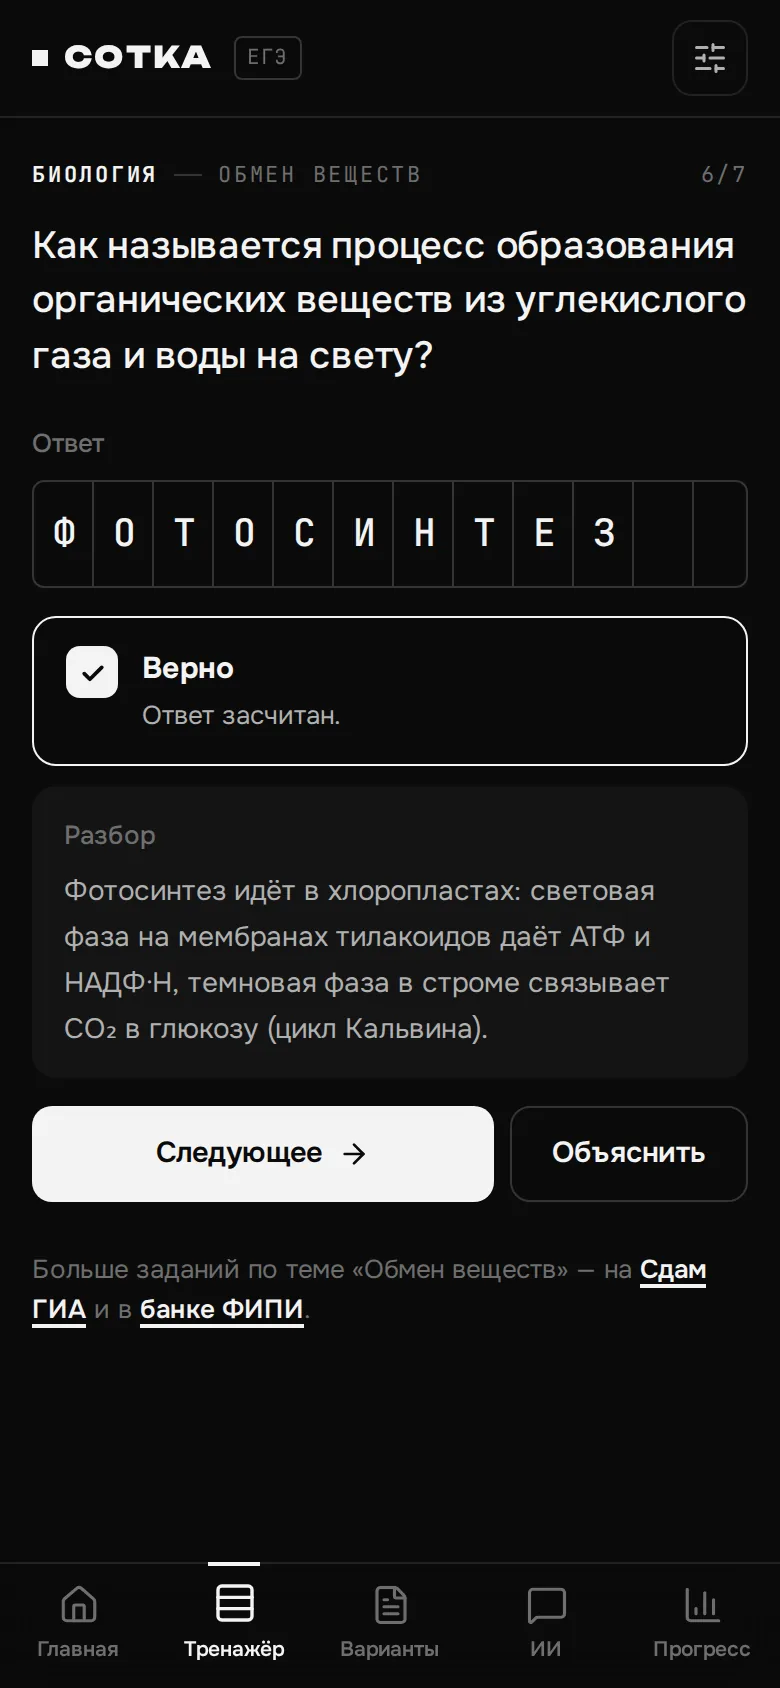
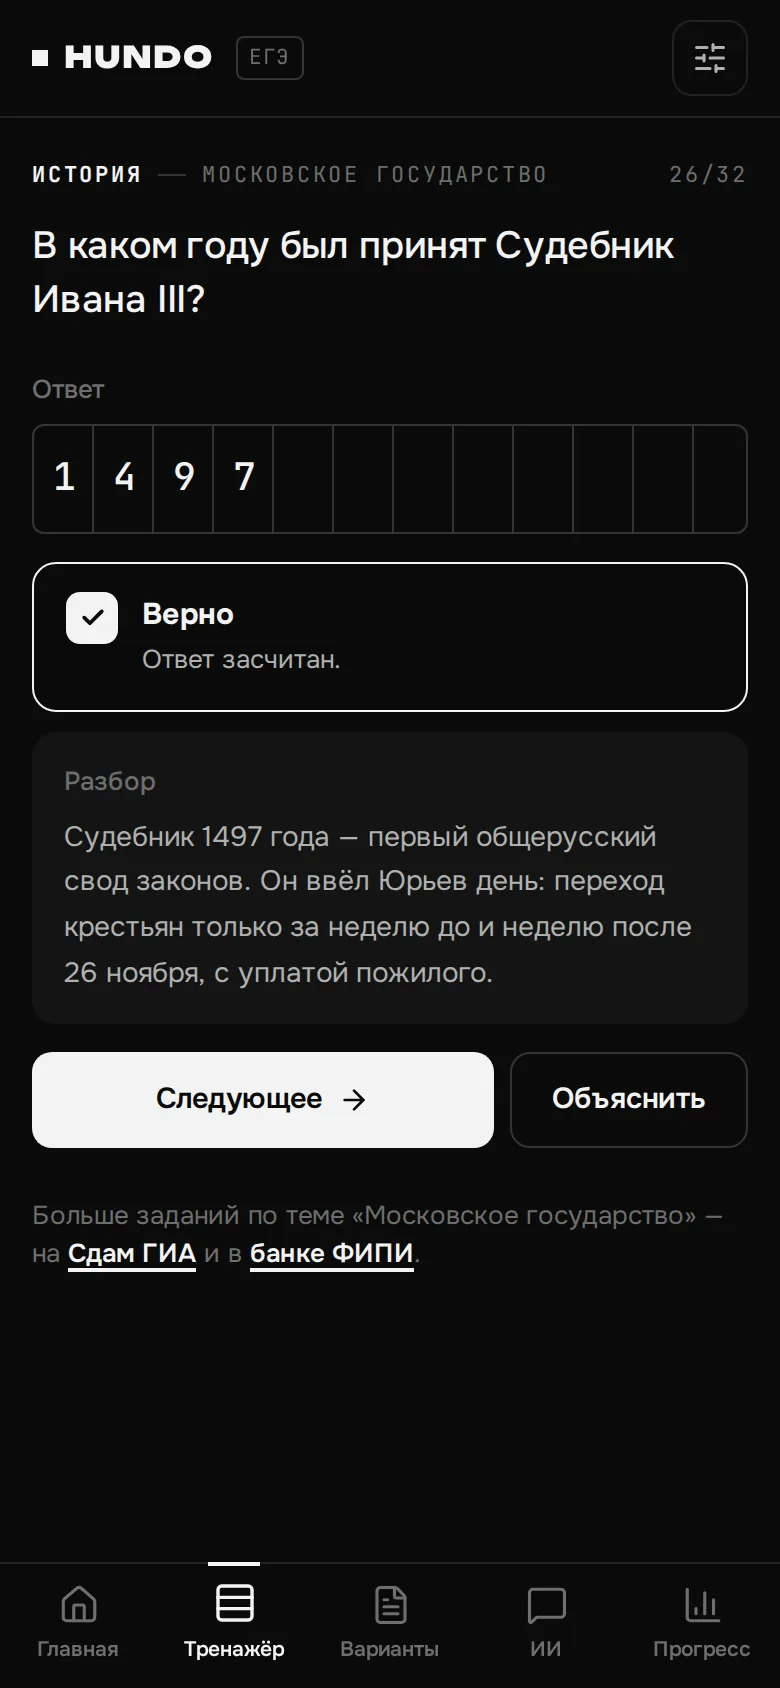
Новое название: HUNDO
Claude-Session: https://claude.ai/code/session_014kczeWkW6iMJEP4UBtWyo9

diff --git a/src/landing/Landing.tsx b/src/landing/Landing.tsx
@@ -37,7 +37,7 @@ export function Landing() {
     <MotionConfig reducedMotion="user">
       <header className="sticky top-[env(safe-area-inset-top,0px)] z-30 border-b border-line bg-bg/85 backdrop-blur-md">
         <div className="mx-auto flex max-w-[1080px] items-center gap-3 px-4 py-3">
-          <p className="m-0 flex items-center gap-2 font-display text-[15px] font-black tracking-[.06em]"><i className="inline-block size-2 bg-accent" />СОТКА</p>
+          <p className="m-0 flex items-center gap-2 font-display text-[15px] font-black tracking-[.06em]"><i className="inline-block size-2 bg-accent" />HUNDO</p>
           <span className="flex-1" />
           <a href={APP_URL} className="text-sm font-semibold text-fg-2 hover:text-fg">Открыть приложение</a>
         </div>
@@ -131,7 +131,7 @@ export function Landing() {
 
       <footer className="border-t border-line">
         <div className="mx-auto flex max-w-[1080px] flex-wrap justify-between gap-3 px-4 py-6 font-mono text-[11.5px] text-fg-3">
-          <span>Сотка · школьный проект · задания: ФИПИ, Сдам ГИА</span>
+          <span>HUNDO · школьный проект · задания: ФИПИ, Сдам ГИА</span>
           <span>сборка {BUILD.version}{BUILD.date ? " · " + BUILD.date : ""}</span>
         </div>
       </footer>
@@ -148,13 +148,13 @@ const STEPS: Record<Platform, React.ReactNode[]> = {
     <>Откройте этот сайт в <b>Safari</b> (или в Chrome на iOS 16.4+)</>,
     <>Нажмите <b className="inline-flex items-center gap-1">«Поделиться» <Share className="size-4" /></b> внизу экрана</>,
     <>Выберите <b className="inline-flex items-center gap-1">«На экран „Домой“» <SquarePlus className="size-4" /></b></>,
-    <>Нажмите <b>«Добавить»</b> — иконка «Сотки» появится рядом с другими приложениями</>,
+    <>Нажмите <b>«Добавить»</b> — иконка HUNDO появится рядом с другими приложениями</>,
   ],
   android: [
     <>Откройте этот сайт в <b>Chrome</b> или Яндекс Браузере</>,
     <>Нажмите кнопку <b>«Установить приложение»</b> выше или меню <b className="inline-flex items-center gap-0.5"><EllipsisVertical className="size-4" /></b> → «Установить приложение»</>,
     <>В других браузерах пункт называется <b>«Добавить на главный экран»</b></>,
-    <>Иконка «Сотки» появится на главном экране — открывайте как обычное приложение</>,
+    <>Иконка HUNDO появится на главном экране — открывайте как обычное приложение</>,
   ],
   desktop: [
     <>Откройте сайт в <b>Chrome</b>, <b>Edge</b> или Яндекс Браузере</>,

diff --git a/src/app/sheets/Sheets.tsx b/src/app/sheets/Sheets.tsx
@@ -150,7 +150,7 @@ function AboutSheet() {
   const [share, setShare] = useState("");
   const onShare = async () => {
     const url = location.origin + "/";
-    if (navigator.share) { try { await navigator.share({ title: "Сотка", text: "ИИ-помощник для подготовки к ЕГЭ и ОГЭ", url }); return; } catch (e) { if ((e as Error).name === "AbortError") return; } }
+    if (navigator.share) { try { await navigator.share({ title: "HUNDO", text: "ИИ-помощник для подготовки к ЕГЭ и ОГЭ", url }); return; } catch (e) { if ((e as Error).name === "AbortError") return; } }
     try { await navigator.clipboard.writeText(url); setShare("Ссылка скопирована: " + url); } catch { setShare(url); }
   };
   const features: [string, string][] = [
@@ -178,8 +178,11 @@ function AboutSheet() {
       <Button className="w-full" onClick={onShare}>Поделиться ссылкой на установку <ArrowRight /></Button>
       {share && <p className="mt-2 text-[12.5px] text-fg-3">{share}</p>}
 
+      <Section>Название</Section>
+      <p className="m-0"><b>HUNDO</b> — «сотка» на английском сленге, то есть 100 баллов. Цель, к которой приложение ведёт ученика.</p>
+
       <Section>Зачем</Section>
-      <p className="m-0">Готовиться к экзамену одному трудно: задания есть в банке ФИПИ и на «Сдам ГИА», но никто не объясняет, почему ответ неверный. Репетитор стоит дорого. «Сотка» даёт ученику репетитора в телефоне: он составляет варианты, проверяет ответы, разбирает каждую ошибку и следит за слабыми темами.</p>
+      <p className="m-0">Готовиться к экзамену одному трудно: задания есть в банке ФИПИ и на «Сдам ГИА», но никто не объясняет, почему ответ неверный. Репетитор стоит дорого. HUNDO даёт ученику репетитора в телефоне: он составляет варианты, проверяет ответы, разбирает каждую ошибку и следит за слабыми темами.</p>
 
       <Section>Что умеет</Section>
       {features.map(([t, s]) => (

diff --git a/index.html b/index.html
@@ -3,7 +3,7 @@
   <head>
     <meta charset="utf-8" />
     <meta name="viewport" content="width=device-width, initial-scale=1, viewport-fit=cover" />
-    <title>Сотка — ИИ-репетитор для ЕГЭ и ОГЭ</title>
+    <title>HUNDO — ИИ-репетитор для ЕГЭ и ОГЭ</title>
     <meta name="description" content="Варианты в формате ФИПИ, проверка ответов и разбор каждой ошибки. Бесплатно, прямо в телефоне." />
     <meta name="theme-color" content="#0a0a0a" />
     <link rel="icon" type="image/png" sizes="192x192" href="/icons/icon-192.png" />
@@ -11,8 +11,8 @@
     <meta name="apple-mobile-web-app-capable" content="yes" />
     <meta name="mobile-web-app-capable" content="yes" />
     <meta name="apple-mobile-web-app-status-bar-style" content="black-translucent" />
-    <meta name="apple-mobile-web-app-title" content="Сотка" />
-    <meta property="og:title" content="Сотка — ИИ-репетитор для ЕГЭ и ОГЭ" />
+    <meta name="apple-mobile-web-app-title" content="HUNDO" />
+    <meta property="og:title" content="HUNDO — ИИ-репетитор для ЕГЭ и ОГЭ" />
     <meta property="og:description" content="Варианты в формате ФИПИ, проверка ответов и разбор каждой ошибки." />
     <meta property="og:image" content="/icons/icon-512.png" />
     <script>

diff --git a/app/index.html b/app/index.html
@@ -3,15 +3,15 @@
   <head>
     <meta charset="utf-8" />
     <meta name="viewport" content="width=device-width, initial-scale=1, viewport-fit=cover" />
-    <title>Сотка</title>
-    <meta name="description" content="Сотка — ИИ-репетитор для подготовки к ЕГЭ и ОГЭ" />
+    <title>HUNDO</title>
+    <meta name="description" content="HUNDO — ИИ-репетитор для подготовки к ЕГЭ и ОГЭ" />
     <meta name="theme-color" content="#0a0a0a" />
     <link rel="icon" type="image/png" sizes="192x192" href="/icons/icon-192.png" />
     <link rel="apple-touch-icon" href="/icons/apple-touch-icon.png" />
     <meta name="apple-mobile-web-app-capable" content="yes" />
     <meta name="mobile-web-app-capable" content="yes" />
     <meta name="apple-mobile-web-app-status-bar-style" content="black-translucent" />
-    <meta name="apple-mobile-web-app-title" content="Сотка" />
+    <meta name="apple-mobile-web-app-title" content="HUNDO" />
     <script>
       // тема и акцент до первой отрисовки — без вспышки светлого экрана
       try {

diff --git a/src/lib/data.ts b/src/lib/data.ts
@@ -1,6 +1,6 @@
 import type { SubjectId } from "./tasks";
 
-export const APP_NAME = "СОТКА";          // название на логотипе — меняется здесь
+export const APP_NAME = "HUNDO";          // название на логотипе — меняется здесь
 export const APP_VERSION = "3.0";
 
 declare const __BUILD__: { version: string; date: string; message: string };
@@ -31,7 +31,7 @@ export type AccentId = (typeof ACCENTS)[number]["id"];
 
 export type Provider = "server" | "openrouter" | "openai" | "custom";
 export const PRESETS: Record<Provider, { label: string; base: string; model: string }> = {
-  server: { label: "Сервер Сотки — без ключа", base: "/api", model: "" },
+  server: { label: "Сервер HUNDO — без ключа", base: "/api", model: "" },
   openrouter: { label: "OpenRouter — свой ключ", base: "https://openrouter.ai/api/v1", model: "openrouter/free" },
   openai: { label: "OpenAI — свой ключ", base: "https://api.openai.com/v1", model: "gpt-4o-mini" },
   custom: { label: "Свой адрес", base: "", model: "" },

diff --git a/vite.preview.config.ts b/vite.preview.config.ts
@@ -1,0 +1,24 @@
+// Сборка предпросмотра: всё приложение в один HTML-файл (для показа по ссылке без хостинга)
+import { defineConfig } from "vite";
+import react from "@vitejs/plugin-react";
+import tailwindcss from "@tailwindcss/vite";
+import { viteSingleFile } from "vite-plugin-singlefile";
+import path from "node:path";
+
+export default defineConfig({
+  base: "./",
+  define: { __BUILD__: JSON.stringify({ version: "preview", date: "", message: "" }) },
+  resolve: {
+    alias: {
+      "virtual:pwa-register/react": path.resolve(import.meta.dirname, "src/preview/pwa-stub.ts"),
+      "@": path.resolve(import.meta.dirname, "src"),
+    },
+  },
+  plugins: [react(), tailwindcss(), viteSingleFile()],
+  build: {
+    outDir: "dist-preview",
+    emptyOutDir: true,
+    assetsInlineLimit: 100_000_000,
+    rollupOptions: { input: path.resolve(import.meta.dirname, "app/index.html") },
+  },
+});

diff --git a/src/app/Shell.tsx b/src/app/Shell.tsx
@@ -21,7 +21,7 @@ export function TopBar() {
     <header className="sticky top-[env(safe-area-inset-top,0px)] z-30 border-b border-line bg-bg/85 backdrop-blur-md">
       <div className="mx-auto flex max-w-[560px] items-center gap-2.5 px-4 py-2.5">
         <p className="m-0 flex items-center gap-2 font-display text-[15px] font-black tracking-[.06em]">
-          <i className="inline-block size-2 bg-accent transition-colors duration-500" />СОТКА
+          <i className="inline-block size-2 bg-accent transition-colors duration-500" />HUNDO
         </p>
         <span className="rounded border border-line-2 px-1.5 py-0.5 font-mono text-[10.5px] tracking-[.08em] text-fg-3">{exam}</span>
         <span className="flex-1" />

diff --git a/vite.config.ts b/vite.config.ts
@@ -35,8 +35,8 @@ export default defineConfig({
       includeAssets: ["icons/*.png"],
       manifest: {
         id: "/app/",
-        name: "Сотка — ИИ-помощник по ЕГЭ и ОГЭ",
-        short_name: "Сотка",
+        name: "HUNDO — ИИ-помощник по ЕГЭ и ОГЭ",
+        short_name: "HUNDO",
         description: "ИИ-репетитор для подготовки к ЕГЭ и ОГЭ: варианты в формате ФИПИ, проверка ответов, разбор ошибок",
         lang: "ru",
         start_url: "/app/",

diff --git a/api/chat.js b/api/chat.js
@@ -78,8 +78,8 @@ export default {
         headers:{
           "content-type":"application/json",
           "authorization":"Bearer " + KEY,
-          "http-referer":"https://" + (req.headers.get("host") || "sotka.vercel.app"),
-          "x-title":"Sotka",
+          "http-referer":"https://" + (req.headers.get("host") || "hundo.vercel.app"),
+          "x-title":"HUNDO",
         },
         body:JSON.stringify({model:MODEL, stream:true, temperature, max_tokens:MAX_TOKENS, messages}),
       });

diff --git a/src/components/magicui/number-ticker.tsx b/src/components/magicui/number-ticker.tsx
@@ -1,4 +1,4 @@
-// Компонент NumberTicker из Magic UI (MIT) — опубликован в каталоге 21st.dev, адаптирован под «Сотку».
+// Компонент NumberTicker из Magic UI (MIT) — опубликован в каталоге 21st.dev, адаптирован под HUNDO.
 "use client"
 
 import { useEffect, useRef, type ComponentPropsWithoutRef } from "react"

diff --git a/src/components/magicui/border-beam.tsx b/src/components/magicui/border-beam.tsx
@@ -1,4 +1,4 @@
-// Компонент BorderBeam из Magic UI (MIT) — опубликован в каталоге 21st.dev, адаптирован под «Сотку».
+// Компонент BorderBeam из Magic UI (MIT) — опубликован в каталоге 21st.dev, адаптирован под HUNDO.
 "use client"
 
 import { motion, type MotionStyle, type Transition } from "motion/react"

diff --git a/src/components/magicui/marquee.tsx b/src/components/magicui/marquee.tsx
@@ -1,4 +1,4 @@
-// Компонент Marquee из Magic UI (MIT) — опубликован в каталоге 21st.dev, адаптирован под «Сотку».
+// Компонент Marquee из Magic UI (MIT) — опубликован в каталоге 21st.dev, адаптирован под HUNDO.
 import { type ComponentPropsWithoutRef } from "react"
 
 import { cn } from "@/lib/utils"
